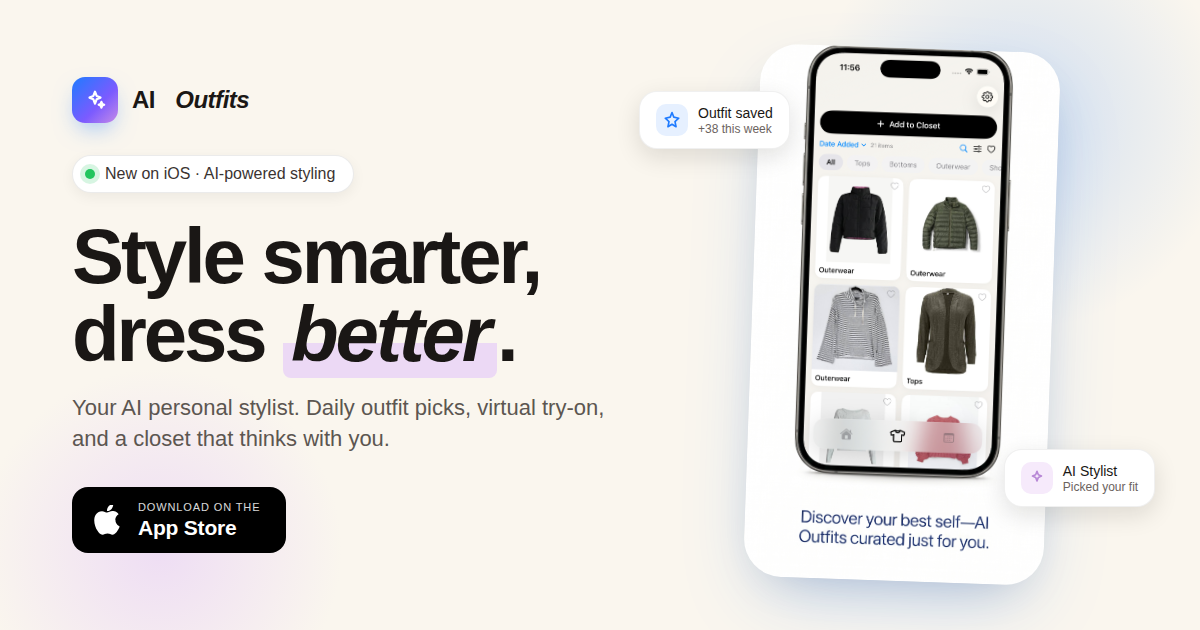
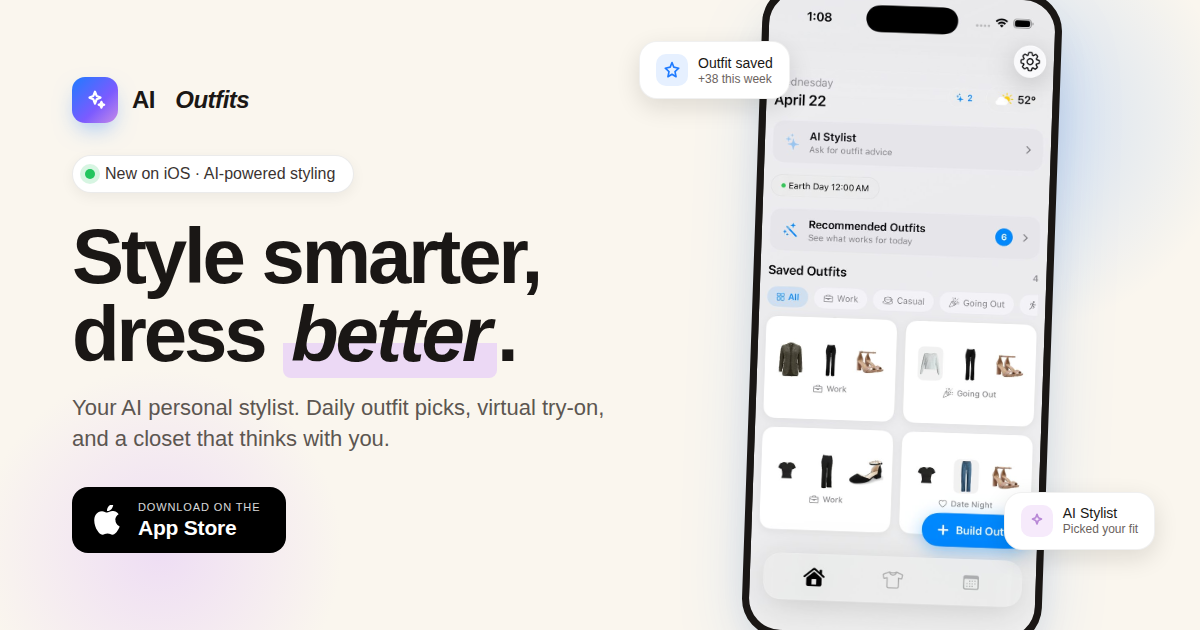
Swap to clean simulator screenshots, drop the crop hack
The original App Store screenshots had embedded headline text that
required cropping with aspect-ratio + object-position tricks. The
user uploaded clean iPhone simulator screenshots (no embedded text)
on a sister branch; this commit pulls in the six relevant ones and
displays them at native aspect ratio inside a simulated iPhone bezel.

- screenshots/: six JPGs compressed to 720x1565 ~50-100KB each
  (home, closet, recommendations, builder, stylist, tryon).
  Total weight 462KB, down from 21MB of raw PNGs.
- index.html: phone mockup CSS now uses native 1206:2622 aspect ratio
  with a thin dark bezel (8px padding, 46px outer radius, 38px inner
  radius). Removed the crop variants. All six img src attributes
  updated to the new short paths. Hero preload retargeted.
- JSON-LD screenshot[] array updated to reference the new URLs.
- robots.txt and ai.txt: dropped the Appstore%20photos/ Disallow
  rules (folder no longer exists).
- og-image.png: regenerated using the home screen screenshot inside
  a simulated bezel.
- Old Appstore photos/ folder removed.

https://claude.ai/code/session_0132pi1DCor7QxZPNQGiZnMw

Changed region(s): [[0.5242, 0.0, 0.9558, 1.0], [0.6167, 0.0, 0.6475, 0.0603]]

diff --git a/index.html b/index.html
@@ -27,7 +27,7 @@
 <link rel="alternate" type="text/plain" href="llms.txt" title="llms.txt index">
 <link rel="preconnect" href="https://fonts.googleapis.com">
 <link rel="preconnect" href="https://fonts.gstatic.com" crossorigin>
-<link rel="preload" as="image" href="Appstore%20photos/New%20Project%20%2819%29.jpg">
+<link rel="preload" as="image" href="screenshots/home.jpg">
 <link href="https://fonts.googleapis.com/css2?family=Inter:ital,wght@0,400;0,500;0,600;0,700;0,800;1,500;1,700;1,800&display=swap" rel="stylesheet">
 <script type="application/ld+json">
 {
@@ -66,12 +66,12 @@
       "description": "AI Outfits scans your closet, learns your taste, and styles you for any occasion. Daily outfit recommendations, an AI stylist chat, and virtual try-on, all from your iPhone.",
       "image": "https://ai-outfits.app/og-image.png",
       "screenshot": [
-        "https://ai-outfits.app/Appstore%20photos/New%20Project%20%2819%29.jpg",
-        "https://ai-outfits.app/Appstore%20photos/New%20Project%20%2819%29%20copy%202.jpg",
-        "https://ai-outfits.app/Appstore%20photos/New%20Project%20%2819%29%20copy%203.jpg",
-        "https://ai-outfits.app/Appstore%20photos/New%20Project%20%2819%29%20copy%204.jpg",
-        "https://ai-outfits.app/Appstore%20photos/New%20Project%20%2819%29%20copy%205.jpg",
-        "https://ai-outfits.app/Appstore%20photos/New%20Project%20%2819%29%20copy%206.jpg"
+        "https://ai-outfits.app/screenshots/home.jpg",
+        "https://ai-outfits.app/screenshots/closet.jpg",
+        "https://ai-outfits.app/screenshots/recommendations.jpg",
+        "https://ai-outfits.app/screenshots/builder.jpg",
+        "https://ai-outfits.app/screenshots/stylist.jpg",
+        "https://ai-outfits.app/screenshots/tryon.jpg"
       ],
       "featureList": [
         "Digital wardrobe with auto-categorization",
@@ -254,20 +254,23 @@ button{font:inherit;color:inherit;background:none;border:0;cursor:pointer}
 .hero__meta{display:flex;align-items:center;gap:16px;margin-top:28px;font-size:13px;color:var(--fg-muted)}
 .hero__stars{color:#F5A623;letter-spacing:2px;font-size:14px}
 
-/* Phone mockup */
+/* Phone mockup — clean simulator screenshots, native aspect, subtle bezel */
 .phone{
   position:relative;
   margin:0 auto;
-  width:100%;max-width:420px;
-  aspect-ratio:9/16;
-  border-radius:var(--radius-xl);
+  width:100%;max-width:360px;
+  aspect-ratio:1206/2622;
+  border-radius:46px;
   overflow:hidden;
-  box-shadow:var(--shadow-lg);
-  background:#FAF6EE;
+  background:#1A1715;
+  padding:8px;
+  box-shadow:var(--shadow-lg),0 0 0 1px rgba(0,0,0,0.06);
   will-change:transform;
 }
 .phone__img{
-  width:100%;height:100%;object-fit:cover;object-position:center bottom;
+  width:100%;height:100%;
+  border-radius:38px;
+  object-fit:cover;object-position:center;
   display:block;
 }
 .phone--hero{transform:translateZ(0)}
@@ -359,10 +362,6 @@ button{font:inherit;color:inherit;background:none;border:0;cursor:pointer}
   content:"";position:absolute;inset:-30px;border-radius:48px;background:var(--bg-warm);
   z-index:-1;
 }
-
-/* Crop variants for screenshots with embedded headlines */
-.phone__img--crop-tight{object-position:center 88%}
-.phone__img--crop-mid{object-position:center 70%}
 
 /* ---------- How it works ---------- */
 .how{background:var(--bg-warm);position:relative}
@@ -491,7 +490,7 @@ button{font:inherit;color:inherit;background:none;border:0;cursor:pointer}
 
     <div class="reveal" style="position:relative">
       <div class="phone phone--hero" data-parallax="0.15">
-        <img class="phone__img" src="Appstore%20photos/New%20Project%20%2819%29.jpg" alt="AI Outfits closet view showing organized outerwear" width="828" height="1472" fetchpriority="high">
+        <img class="phone__img" src="screenshots/home.jpg" alt="AI Outfits home screen showing daily outfit recommendations and saved looks" width="720" height="1565" fetchpriority="high">
       </div>
       <div class="phone__float phone__float--top" aria-hidden="true">
         <span class="ico ico--blue">
@@ -541,7 +540,7 @@ button{font:inherit;color:inherit;background:none;border:0;cursor:pointer}
       </div>
       <div class="feature__media" data-bg="cream">
         <div class="phone" data-parallax="0.08">
-          <img class="phone__img" src="Appstore%20photos/New%20Project%20%2819%29%20copy%204.jpg" alt="Closet grid view organized by category" loading="lazy" decoding="async" width="828" height="1472">
+          <img class="phone__img" src="screenshots/closet.jpg" alt="Closet grid view organized by category — outerwear, tops, bottoms" loading="lazy" decoding="async" width="720" height="1565">
         </div>
       </div>
     </article>
@@ -559,7 +558,7 @@ button{font:inherit;color:inherit;background:none;border:0;cursor:pointer}
       </div>
       <div class="feature__media" data-bg="cream">
         <div class="phone" data-parallax="0.1">
-          <img class="phone__img" src="Appstore%20photos/New%20Project%20%2819%29%20copy%203.jpg" alt="Daily recommended outfits with try-on and save buttons" loading="lazy" decoding="async" width="828" height="1472">
+          <img class="phone__img" src="screenshots/recommendations.jpg" alt="Daily recommended outfits with Try On and Save buttons" loading="lazy" decoding="async" width="720" height="1565">
         </div>
       </div>
     </article>
@@ -577,7 +576,7 @@ button{font:inherit;color:inherit;background:none;border:0;cursor:pointer}
       </div>
       <div class="feature__media" data-bg="cream">
         <div class="phone" data-parallax="0.08">
-          <img class="phone__img" src="Appstore%20photos/New%20Project%20%2819%29%20copy%202.jpg" alt="Outfit builder with top, bottom and shoes selectors" loading="lazy" decoding="async" width="828" height="1472">
+          <img class="phone__img" src="screenshots/builder.jpg" alt="Outfit builder showing top, bottom and shoes carousels with Save Outfit button" loading="lazy" decoding="async" width="720" height="1565">
         </div>
       </div>
     </article>
@@ -595,7 +594,7 @@ button{font:inherit;color:inherit;background:none;border:0;cursor:pointer}
       </div>
       <div class="feature__media" data-bg="lavender">
         <div class="phone" data-parallax="0.1">
-          <img class="phone__img" src="Appstore%20photos/New%20Project%20%2819%29%20copy%205.jpg" alt="AI Stylist chat with suggested questions like What should I wear today" loading="lazy" decoding="async" width="828" height="1472">
+          <img class="phone__img" src="screenshots/stylist.jpg" alt="AI Stylist chat empty state with suggested prompts like What should I wear today" loading="lazy" decoding="async" width="720" height="1565">
         </div>
       </div>
     </article>
@@ -613,7 +612,7 @@ button{font:inherit;color:inherit;background:none;border:0;cursor:pointer}
       </div>
       <div class="feature__media" data-bg="cream">
         <div class="phone" data-parallax="0.08">
-          <img class="phone__img" src="Appstore%20photos/New%20Project%20%2819%29%20copy%206.jpg" alt="Virtual try-on showing before and after" loading="lazy" decoding="async" width="828" height="1472">
+          <img class="phone__img" src="screenshots/tryon.jpg" alt="Virtual try-on result showing a person wearing the rendered outfit" loading="lazy" decoding="async" width="720" height="1565">
         </div>
       </div>
     </article>